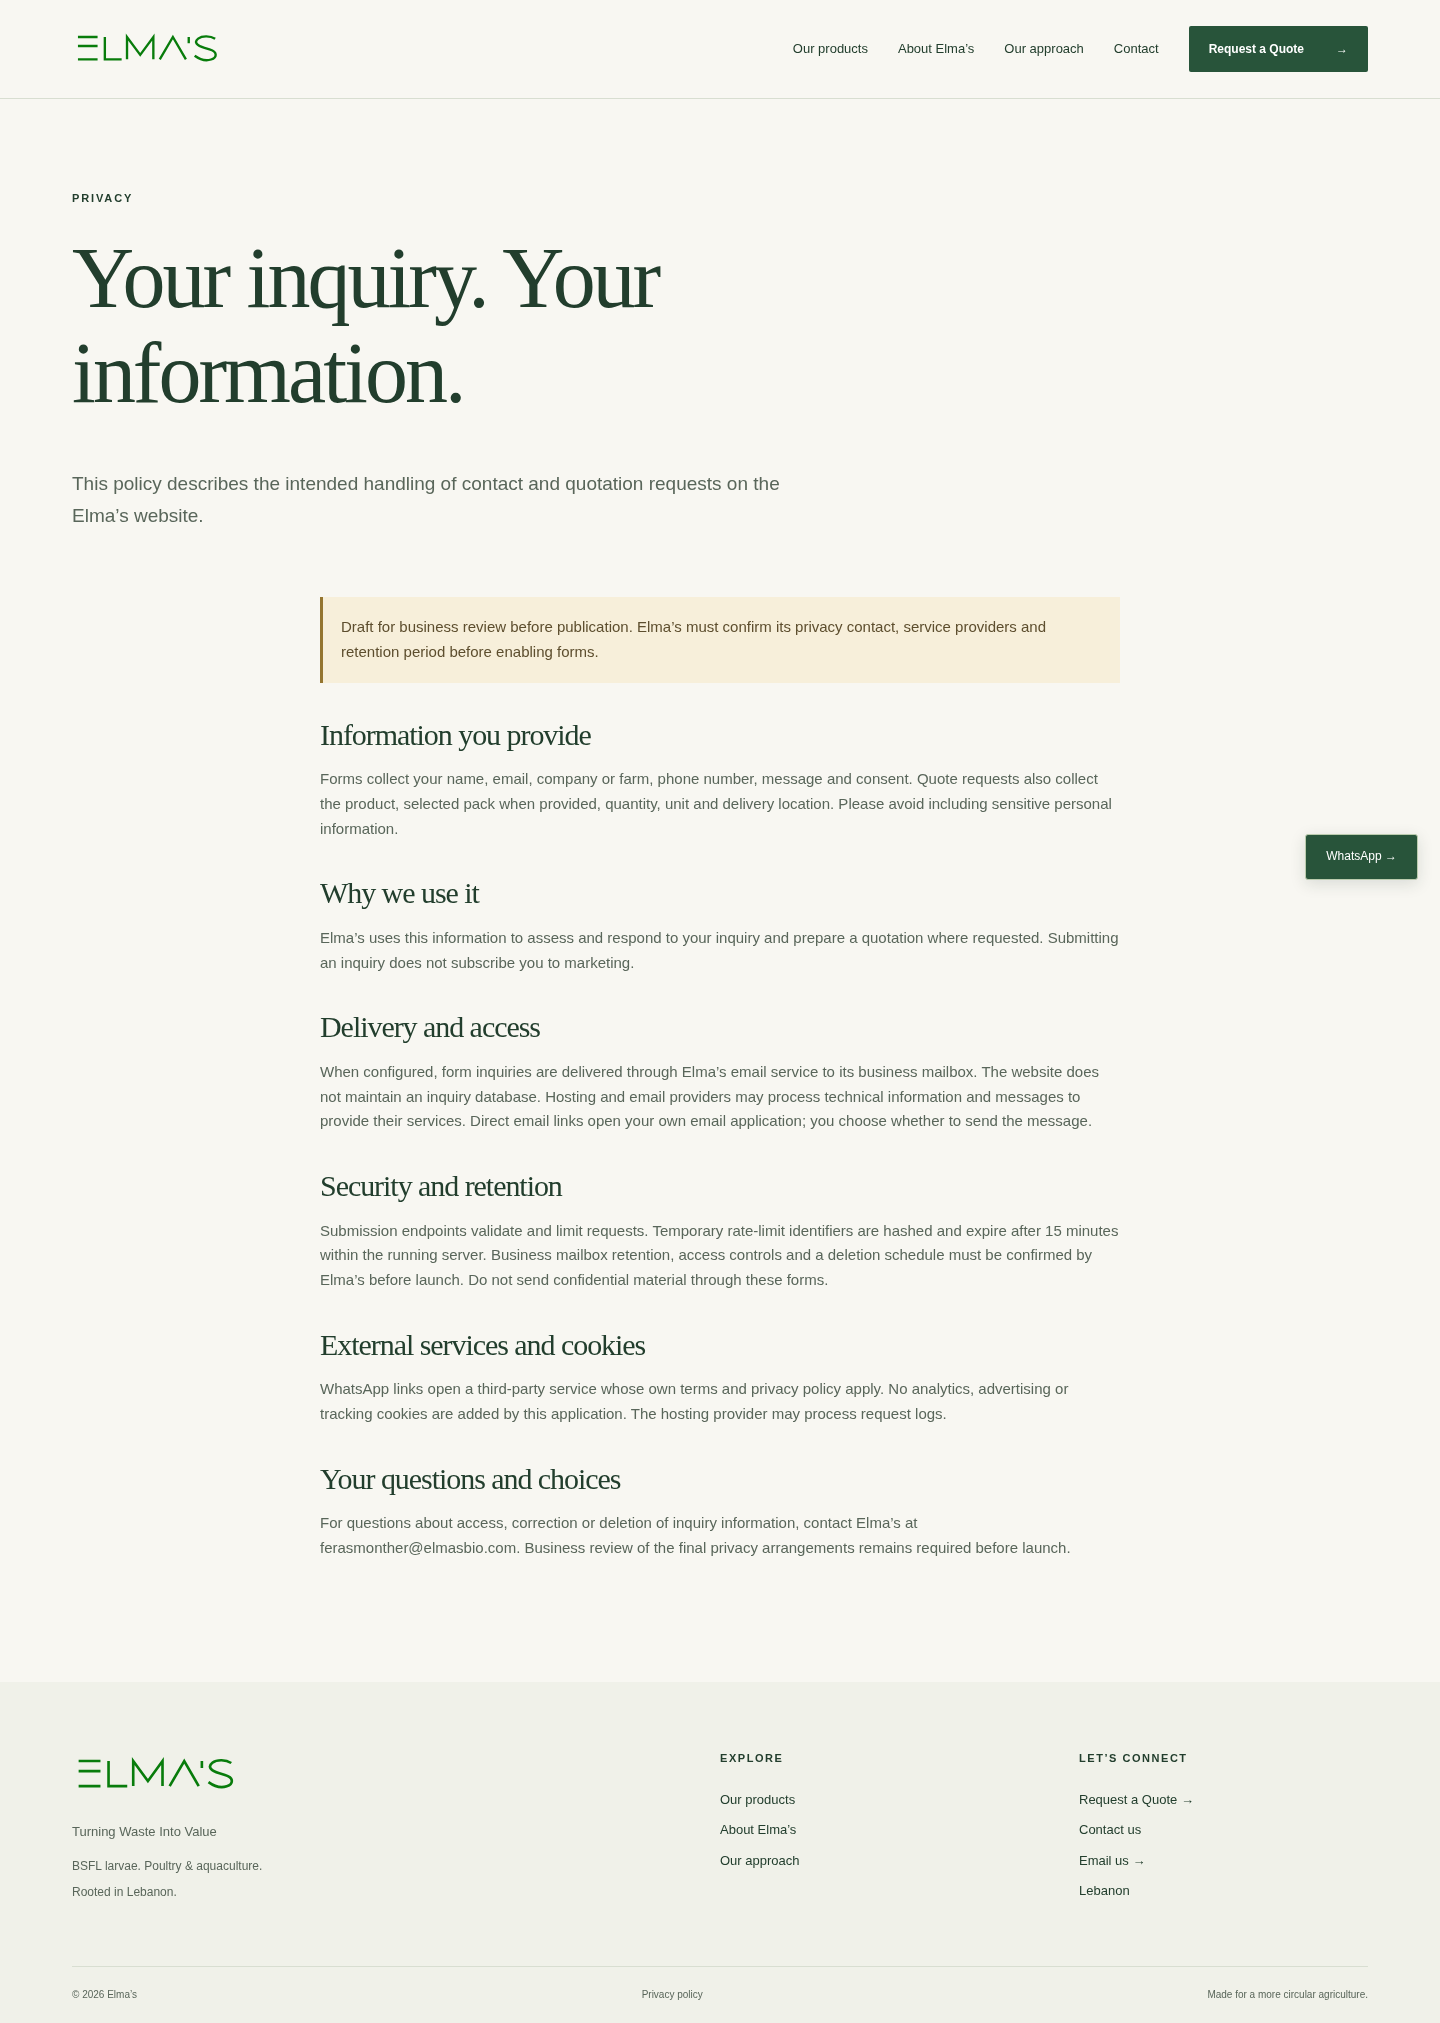
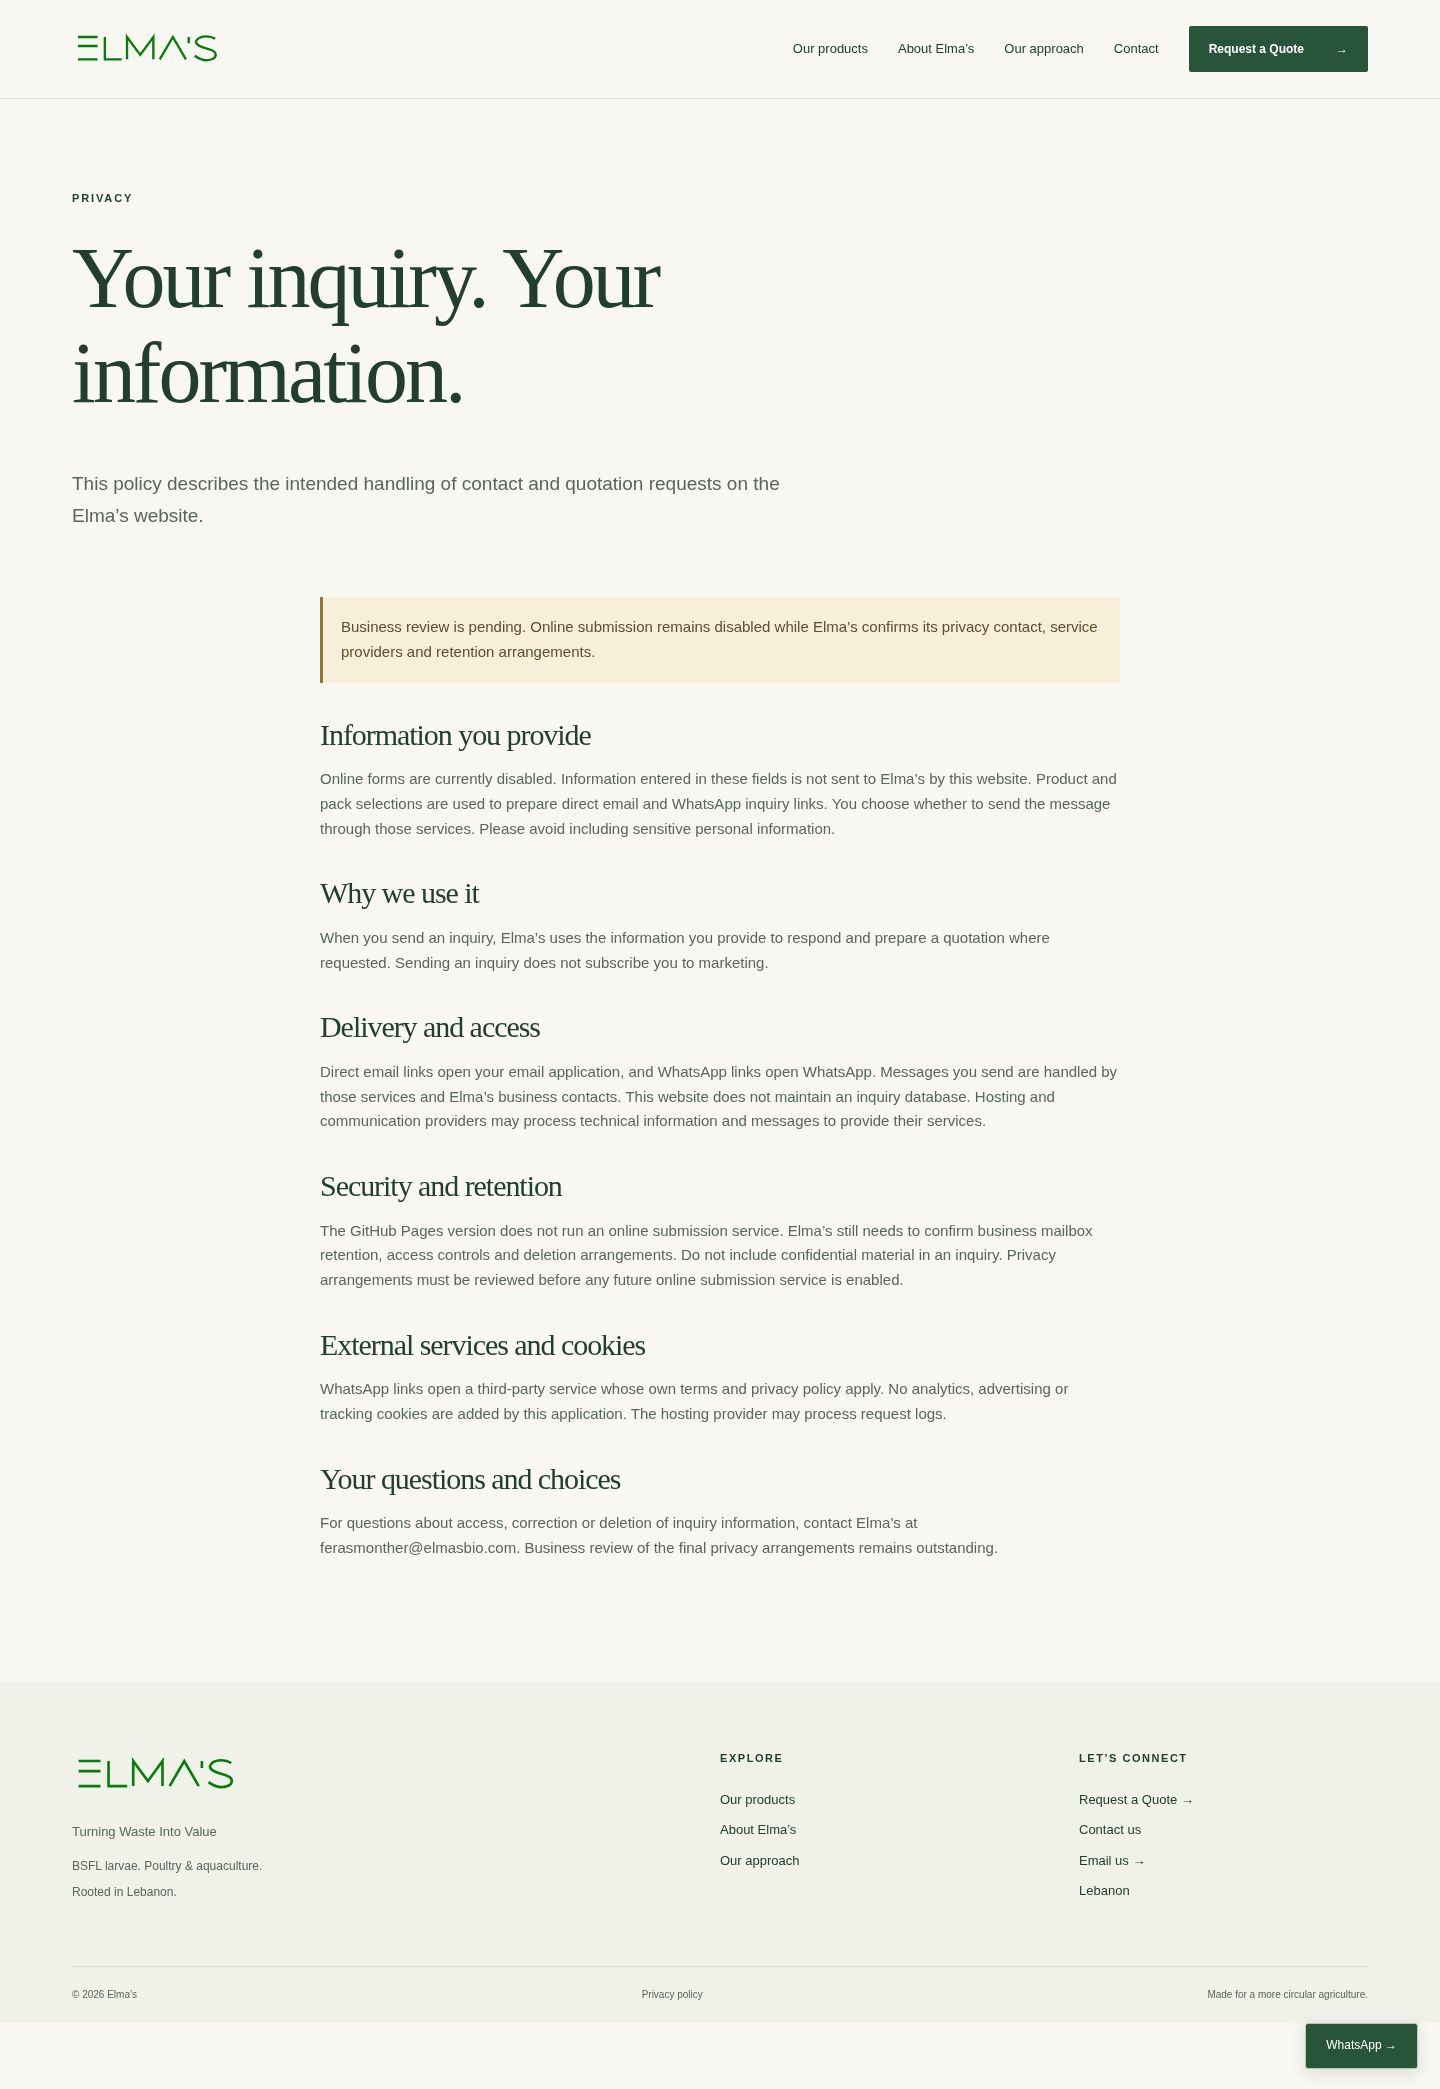
Complete full-site consistency audit and correct remaining copy and layout mismatches

diff --git a/src/app/privacy/page.tsx b/src/app/privacy/page.tsx
@@ -15,33 +15,34 @@ export default function Privacy() {
       </Intro>
       <article className="wrap prose">
         <p className="notice">
-          Draft for business review before publication. Elma’s must confirm its privacy contact,
-          service providers and retention period before enabling forms.
+          Business review is pending. Online submission remains disabled while Elma’s confirms its
+          privacy contact, service providers and retention arrangements.
         </p>
         <h2>Information you provide</h2>
         <p>
-          Forms collect your name, email, company or farm, phone number, message and consent. Quote
-          requests also collect the product, selected pack when provided, quantity, unit and
-          delivery location. Please avoid including sensitive personal information.
+          Online forms are currently disabled. Information entered in these fields is not sent to
+          Elma’s by this website. Product and pack selections are used to prepare direct email and
+          WhatsApp inquiry links. You choose whether to send the message through those services.
+          Please avoid including sensitive personal information.
         </p>
         <h2>Why we use it</h2>
         <p>
-          Elma’s uses this information to assess and respond to your inquiry and prepare a quotation
-          where requested. Submitting an inquiry does not subscribe you to marketing.
+          When you send an inquiry, Elma’s uses the information you provide to respond and prepare a
+          quotation where requested. Sending an inquiry does not subscribe you to marketing.
         </p>
         <h2>Delivery and access</h2>
         <p>
-          When configured, form inquiries are delivered through Elma’s email service to its business
-          mailbox. The website does not maintain an inquiry database. Hosting and email providers
-          may process technical information and messages to provide their services. Direct email
-          links open your own email application; you choose whether to send the message.
+          Direct email links open your email application, and WhatsApp links open WhatsApp. Messages
+          you send are handled by those services and Elma’s business contacts. This website does not
+          maintain an inquiry database. Hosting and communication providers may process technical
+          information and messages to provide their services.
         </p>
         <h2>Security and retention</h2>
         <p>
-          Submission endpoints validate and limit requests. Temporary rate-limit identifiers are
-          hashed and expire after 15 minutes within the running server. Business mailbox retention,
-          access controls and a deletion schedule must be confirmed by Elma’s before launch. Do not
-          send confidential material through these forms.
+          The GitHub Pages version does not run an online submission service. Elma’s still needs to
+          confirm business mailbox retention, access controls and deletion arrangements. Do not
+          include confidential material in an inquiry. Privacy arrangements must be reviewed before
+          any future online submission service is enabled.
         </p>
         <h2>External services and cookies</h2>
         <p>
@@ -57,7 +58,7 @@ export default function Privacy() {
           ) : (
             'using the contact page'
           )}
-          . Business review of the final privacy arrangements remains required before launch.
+          . Business review of the final privacy arrangements remains outstanding.
         </p>
       </article>
     </>

diff --git a/src/content/site.ts b/src/content/site.ts
@@ -8,7 +8,7 @@ export type Pack = {
 export const deliveryNote =
   'Confirm delivery arrangements and any additional charges with Elma’s before committing to an order. Opening WhatsApp prepares an inquiry; it does not place or pay for an order.';
 export function packLabel(product: Pick<Product, 'name'>, pack: Pack) {
-  return `${pack.format ? pack.format + ' ' : ''}${product.name} — ${pack.weightKg} kg — US$${pack.priceUsd}`;
+  return `${pack.format ? pack.format + ' ' : ''}${product.name}, ${packPrice(pack)} USD`;
 }
 export function packPrice(pack: Pack) {
   return `${pack.weightKg}kg — $${pack.priceUsd}`;
@@ -64,10 +64,10 @@ export const products: Product[] = [
     note: 'Larvae are not a complete feed. Suitability depends on the species, life stage, overall diet and applicable requirements. No universal inclusion rate or performance outcome is implied.',
     image: 'larvae',
     seoDescription:
-      'Black Soldier Fly larvae from Elma’s in Lebanon for chicken and fish feed applications. Live 10 kg packs at US$10. Discuss suitability, availability and specifications.',
+      'Live Black Soldier Fly larvae from Elma’s in Lebanon for chicken and fish feeding applications. Explore pack options and discuss suitability and specifications.',
     inquiryDetails: [
       'Chicken or fish species, life stage and intended feeding approach',
-      'Number of live 10 kg packs and order frequency',
+      'Number of live larvae packs and order frequency',
       'Delivery location and any technical documentation you need',
     ],
     faq: [
@@ -79,7 +79,7 @@ export const products: Product[] = [
       {
         question: 'What live larvae pack is offered?',
         answer:
-          'Live BSFL larvae are offered in 10 kg packs at US$10 per pack. Confirm availability, delivery arrangements and any additional charges before committing to an order. Other formats are not confirmed.',
+          'We offer live BSFL larvae. See the pack option above for the current weight and price. Confirm availability, delivery arrangements and any additional charges before committing to an order. Other formats are not confirmed.',
       },
     ],
     specifications: [
@@ -108,7 +108,7 @@ export const products: Product[] = [
     note: 'Composition, treatment, application rates and suitability must be confirmed for your crop and soil. Frass and vermicompost are different products.',
     image: 'application',
     seoDescription:
-      'BSFL frass from Elma’s in Lebanon: 5 kg packs at US$5 and 10 kg packs at US$9. Request verified composition, treatment details and application guidance.',
+      'BSFL frass from Elma’s in Lebanon for agricultural soil management. Explore pack options and request verified composition, treatment details and application guidance.',
     inquiryDetails: [
       'Crop, growing environment and soil information if available',
       'Area to be treated and approximate quantity required',

diff --git a/src/app/contact/page.tsx b/src/app/contact/page.tsx
@@ -6,7 +6,7 @@ import { seo } from '@/lib/seo';
 export const dynamic = 'force-dynamic';
 export const metadata = seo(
   'Contact',
-  'Contact Elma’s in Lebanon to discuss live BSFL larvae for chickens and fish, BSFL frass and vermicompost and agricultural product inquiries.',
+  'Contact Elma’s in Lebanon about live BSFL larvae for chickens and fish, BSFL frass or vermicompost. Send your inquiry by email or WhatsApp.',
   '/contact',
 );
 export default function Contact() {
@@ -22,7 +22,10 @@ export default function Contact() {
         <aside>
           <div className="eyebrow">FIND US</div>
           <h2>Rooted in Lebanon.</h2>
-          <p>For product-specific requirements, our quote form helps us understand your needs.</p>
+          <p>
+            For a product inquiry, select your product and pack on the quote page, then contact us
+            by email or WhatsApp.
+          </p>
           <Link className="text-link" href="/request-quote">
             Request a Quote →
           </Link>

diff --git a/src/app/products/[slug]/page.tsx b/src/app/products/[slug]/page.tsx
@@ -1,6 +1,6 @@
 import Link from 'next/link';
 import { notFound } from 'next/navigation';
-import { products } from '@/content/site';
+import { images, products } from '@/content/site';
 import { PackOffers } from '@/components/PackOffers';
 import { Media } from '@/components/Media';
 import { CTA } from '@/components/Shared';
@@ -64,7 +64,7 @@ export default async function Product({ params }: { params: Promise<{ slug: stri
             '@type': 'Product',
             name: p.primary ? 'Live BSFL Larvae' : p.name,
             description: p.seoDescription,
-            image: `${origin}/assets/photos/${p.image === 'larvae' ? 'larvae' : p.image}.webp`,
+            ...(p.primary ? { image: `${origin}/assets/photos/${images[p.image].file}` } : {}),
             url: `${origin}/products/${p.slug}`,
             brand: { '@type': 'Brand', name: 'Elma’s' },
             ...(p.packs.length

diff --git a/tests/browser/site.spec.ts b/tests/browser/site.spec.ts
@@ -163,12 +163,12 @@ test('confirmed packs prepare accurate inquiries and preserve selection', async 
     await expect(offers).toHaveCount(packs.length);
     for (let i = 0; i < packs.length; i++) {
       const [id, weight, price, name] = packs[i];
-      const label = `${name} — ${weight} kg — US$${price}`;
+      const label = `${name}, ${weight}kg — $${price} USD`;
       await expect(offers.nth(i).locator('strong')).toHaveText(`${weight}kg — $${price}`);
       const url = new URL(
         (await offers
           .nth(i)
-          .getByRole('link', { name: 'Inquire on WhatsApp:', exact: false })
+          .getByRole('link', { name: 'Ask on WhatsApp about', exact: false })
           .getAttribute('href'))!,
       );
       expect(url.hostname).toBe('wa.me');

diff --git a/src/app/layout.tsx b/src/app/layout.tsx
@@ -10,7 +10,9 @@ export const metadata: Metadata = {
   title: { default: 'Elma’s | Turning Waste Into Value', template: '%s | Elma’s' },
   description:
     'Black Soldier Fly larvae for chicken and fish feed applications, produced in Lebanon. Discover Elma’s core larvae offering and complementary soil inputs.',
-  ...(siteUrl() ? { metadataBase: new URL(siteUrl()!) } : {}),
+  ...(siteUrl() || process.env.DEPLOYMENT_URL
+    ? { metadataBase: new URL(siteUrl() || process.env.DEPLOYMENT_URL!) }
+    : {}),
   robots: siteUrl() ? { index: true, follow: true } : { index: false, follow: false },
 };
 export default function RootLayout({ children }: { children: React.ReactNode }) {

diff --git a/src/app/about/page.tsx b/src/app/about/page.tsx
@@ -23,8 +23,8 @@ export default function About() {
             for organic resources.
           </h2>
           <p>
-            Our mission is to provide sustainable, high-quality Black Soldier Fly larvae as a
-            practical protein source for animal feed, while supporting organic resource recovery.
+            Our mission is to produce Black Soldier Fly larvae for chicken and fish feeding
+            applications while supporting organic resource recovery.
           </p>
           <p>
             Alongside our core BSFL larvae product, we offer distinct soil input product lines: BSFL

diff --git a/src/app/request-quote/page.tsx b/src/app/request-quote/page.tsx
@@ -15,8 +15,8 @@ export default function Quote() {
   return (
     <>
       <Intro tag="REQUEST A QUOTE" title="What do your animals or crops need?">
-        Share your requirements. We’ll discuss availability, specifications and a quotation for your
-        application.
+        Choose a product and pack, then send your inquiry by WhatsApp or email. We’ll discuss
+        suitability, availability and delivery with you.
       </Intro>
       <section className="wrap form-layout section">
         <aside>

diff --git a/src/components/PackOffers.tsx b/src/components/PackOffers.tsx
@@ -52,9 +52,9 @@ export function PackOffers({
                     href={wa}
                     target="_blank"
                     rel="noopener noreferrer"
-                    aria-label={`Inquire on WhatsApp: ${label}`}
+                    aria-label={`Ask on WhatsApp about ${product.name}, ${packPrice(pack)}`}
                   >
-                    Inquire on WhatsApp →
+                    Ask on WhatsApp →
                   </a>
                 )}
                 {!compact && (

diff --git a/src/app/products/page.tsx b/src/app/products/page.tsx
@@ -14,11 +14,6 @@ export default function Products() {
       </Intro>
       <section className="wrap catalog">
         <ProductCards focusPrimary />
-        <p className="note">
-          Live larvae: 10 kg for US$10. BSFL frass: 5 kg for US$5 or 10 kg for US$9. Vermicompost is
-          inquiry-only. Confirm availability, delivery arrangements and any additional charges
-          before committing to an order.
-        </p>
       </section>
       <CTA />
     </>

diff --git a/src/app/globals.css b/src/app/globals.css
@@ -528,10 +528,10 @@ footer {
   color: var(--muted);
 }
 .whatsapp {
-  position: fixed;
-  z-index: 30;
-  bottom: 20px;
-  right: 22px;
+  position: static;
+  display: block;
+  width: fit-content;
+  margin: 0 22px 20px auto;
   background: var(--green);
   color: white;
   padding: 12px 20px;

diff --git a/src/lib/seo.ts b/src/lib/seo.ts
@@ -8,7 +8,7 @@ export function seo(
   path: string,
   image: ImageKey = 'larvae',
 ): Metadata {
-  const origin = siteUrl();
+  const origin = siteUrl() || process.env.DEPLOYMENT_URL;
   const socialImage = origin
     ? [
         {
